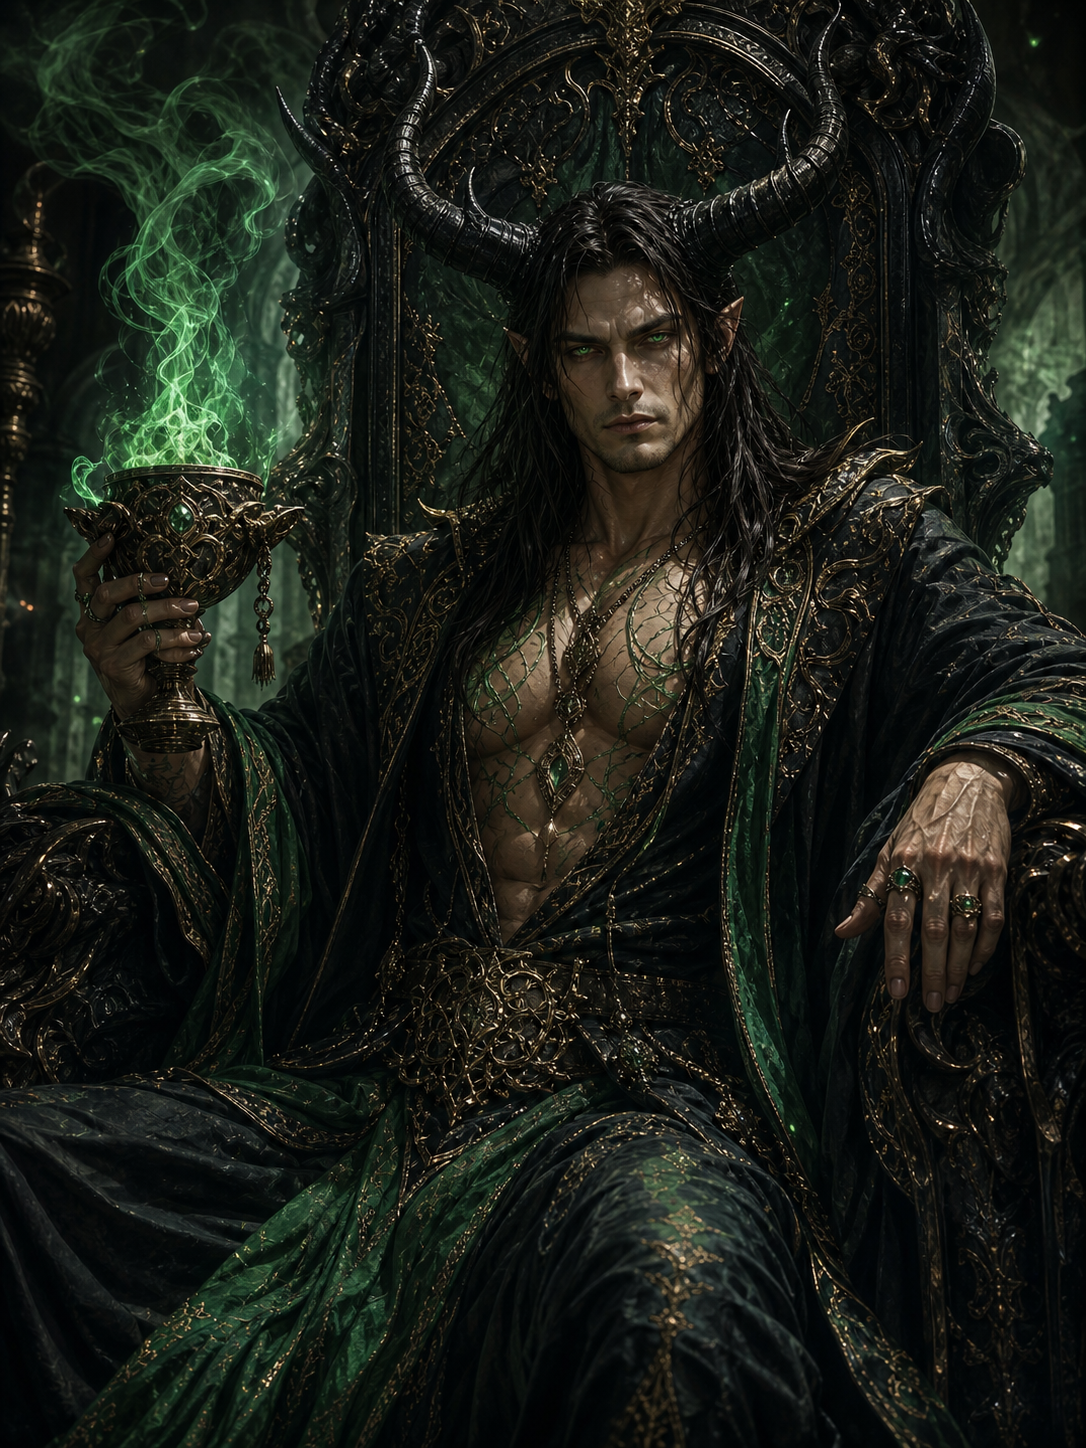
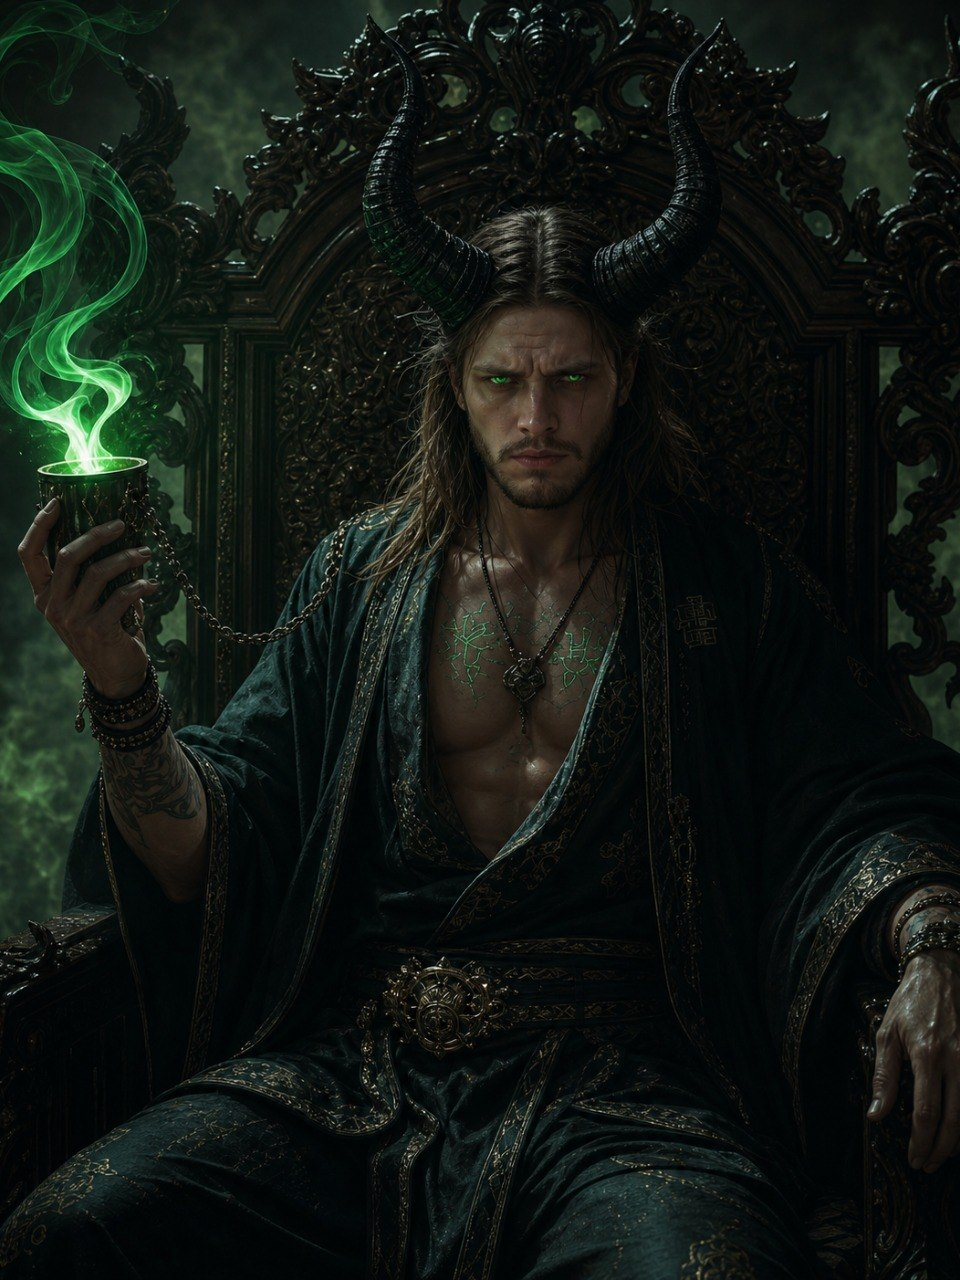
Заменить портрет Серагона

diff --git a/11_Медиа/Портреты_персонажей/Индекс_портретов.md b/11_Медиа/Портреты_персонажей/Индекс_портретов.md
@@ -51,6 +51,8 @@ canon_level: support
 
 
 
+
+| Серагон | есть | `11_Медиа/Портреты_персонажей/Серагон/Серагон_основной_портрет.png` |
 | Гнев Императора | есть | `11_Медиа/Портреты_персонажей/Гнев_Императора/Гнев_Императора_основной_портрет.png` |
 | Бессмертный Император | есть | `11_Медиа/Портреты_персонажей/Бессмертный_Император/Бессмертный_Император_основной_портрет.png` |
 | Ламия из клана Теневой Кошки | есть | `11_Медиа/Портреты_персонажей/Ламия_из_клана_Теневой_Кошки/Ламия_из_клана_Теневой_Кошки_основной_портрет.png` |
@@ -72,7 +74,6 @@ canon_level: support
 | Ур-Оборос | есть | `11_Медиа/Портреты_персонажей/Ур-Оборос/Ур-Оборос_основной_портрет.png` |
 | Ур-Траггал | есть | `11_Медиа/Портреты_персонажей/Ур-Траггал/Ур-Траггал_основной_портрет.png` |
 | Ур-Хекал | есть | `11_Медиа/Портреты_персонажей/Ур-Хекал/Ур-Хекал_основной_портрет.png` |
-| Серагон | есть | `11_Медиа/Портреты_персонажей/Серагон/Серагон_основной_портрет.png` |
 | Инкуб из портала | есть | `11_Медиа/Портреты_персонажей/Серагон/Серагон_основной_портрет.png` |
 | Ур-Таликос | есть | `11_Медиа/Портреты_персонажей/Ур-Таликос/Ур-Таликос_основной_портрет.png` |
 | Демитриос | есть | `11_Медиа/Портреты_персонажей/Демитриос/Демитриос_основной_портрет.png` |
@@ -194,6 +195,7 @@ canon_level: support
 4. Гун Юй.
 5. Никитосиос VI.
 6. Тирион Светоносный.
+
 
 
 

diff --git a/03_Персонажи/Серагон.md b/03_Персонажи/Серагон.md
@@ -51,7 +51,7 @@ portrait_status: available
 - Основной файл: `11_Медиа/Портреты_персонажей/Серагон/Серагон_основной_портрет.png`
 - Промпт: `11_Медиа/Портреты_персонажей/Серагон/Промпт_портрета.md`
 
-Визуальный образ Ур-Серагона: властный мужчина-инкуб с длинными темными волосами, черными рогами, зелеными светящимися глазами, темно-зелеными и черными одеяниями с золотыми деталями, зеленым магическим дымом и роскошным обсидиановым троном.
+Визуальный образ Ур-Серагона закреплен по пользовательскому референсу: властный мужчина-инкуб с длинными темными волосами, черными рогами, зелеными светящимися глазами, темно-зелеными и черными одеяниями, зеленым магическим дымом и роскошным обсидиановым троном.
 
 ## Связи
 
@@ -103,4 +103,3 @@ portrait_status: available
 - `03_Персонажи/Ур-Араззель.md`
 - `02_Лор/30_Преисподняя_Сар-Илам_и_князья_демонов.md`
 - `01_Кампания/03_Нерешенные_вопросы.md`
-